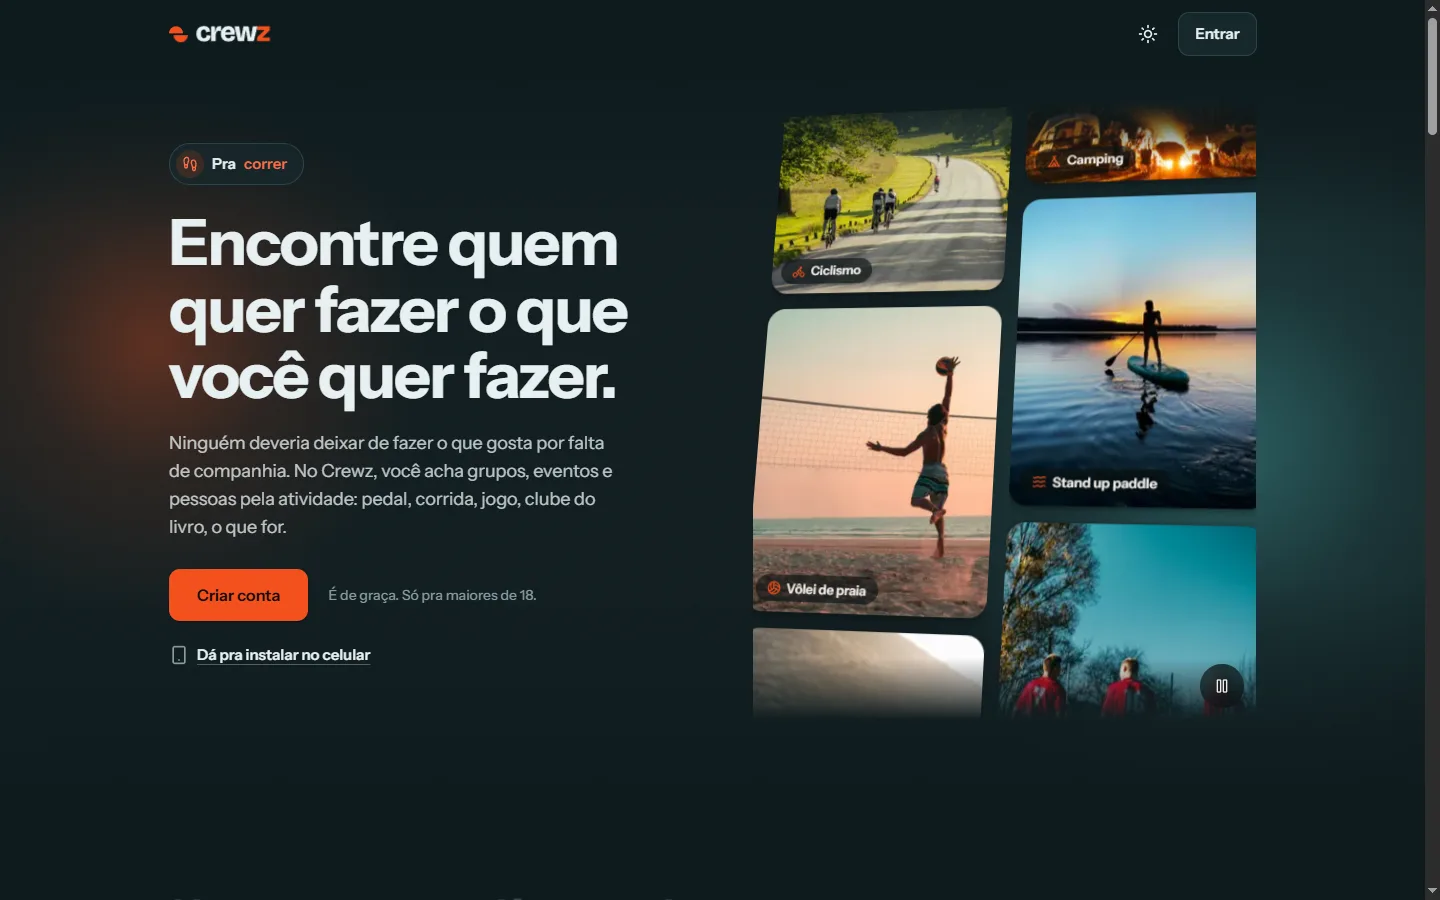
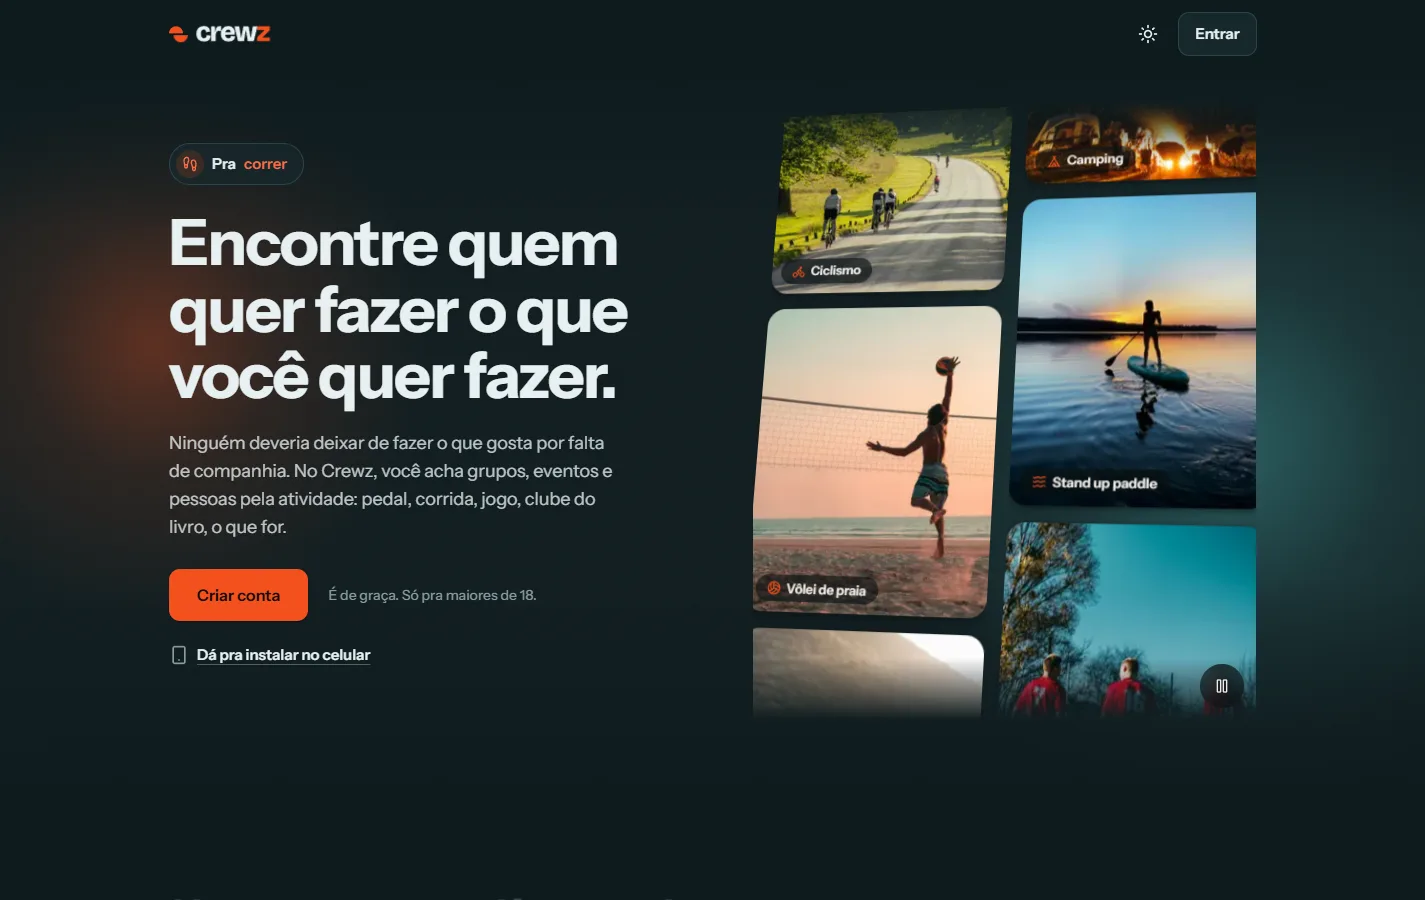
fix(content): crop the browser scrollbar from the screenshots

diff --git a/src/lib/projects.ts b/src/lib/projects.ts
@@ -19,6 +19,6 @@ export const projects = [
   },
 ] as const;
 
-export const projectImageSize = { width: 1440, height: 900 };
+export const projectImageSize = { width: 1425, height: 900 };
 
 export const coauthorUrl = "https://github.com/ViniciusLoureiro67/";
